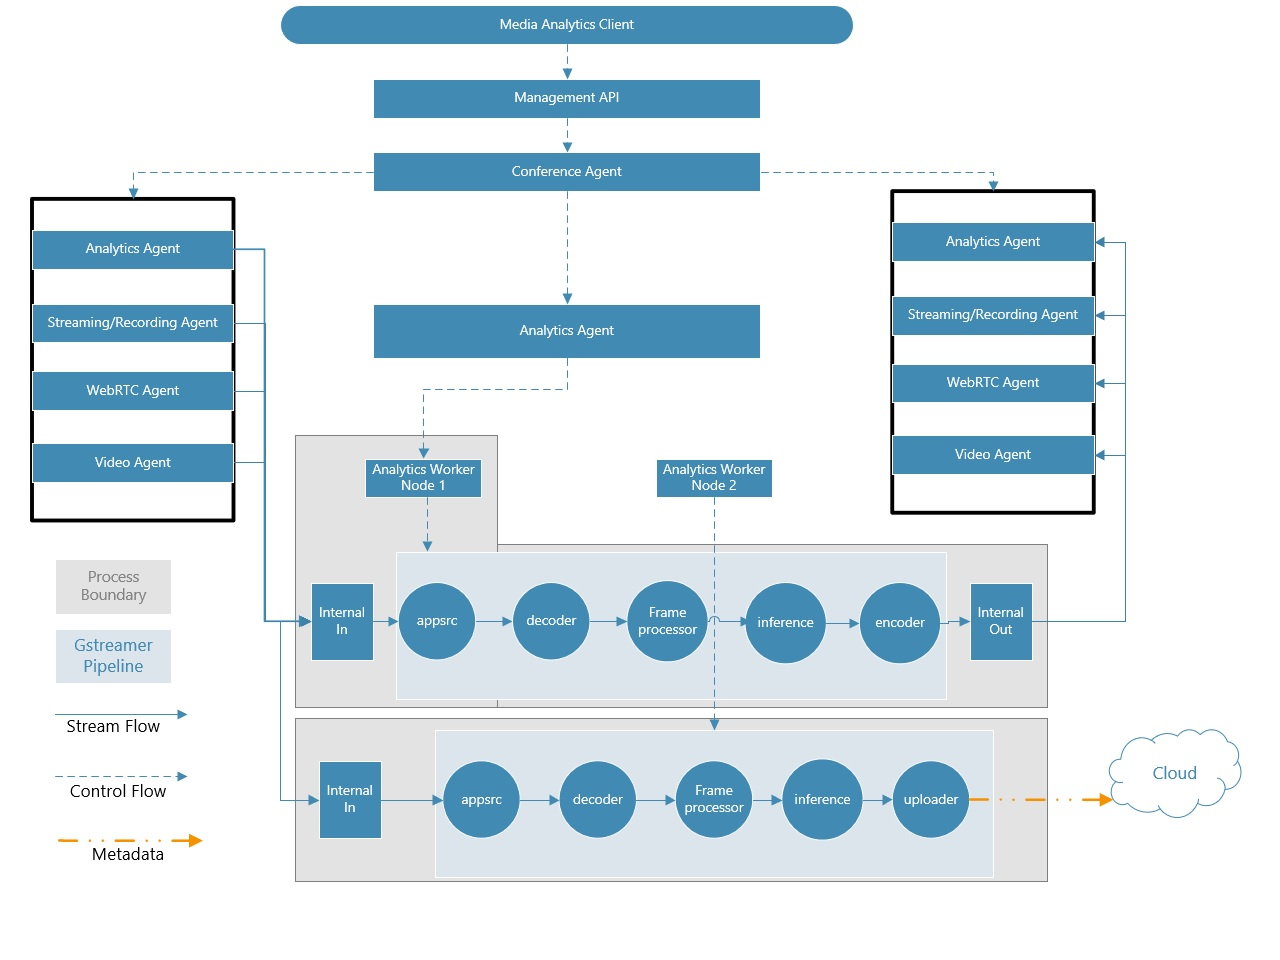
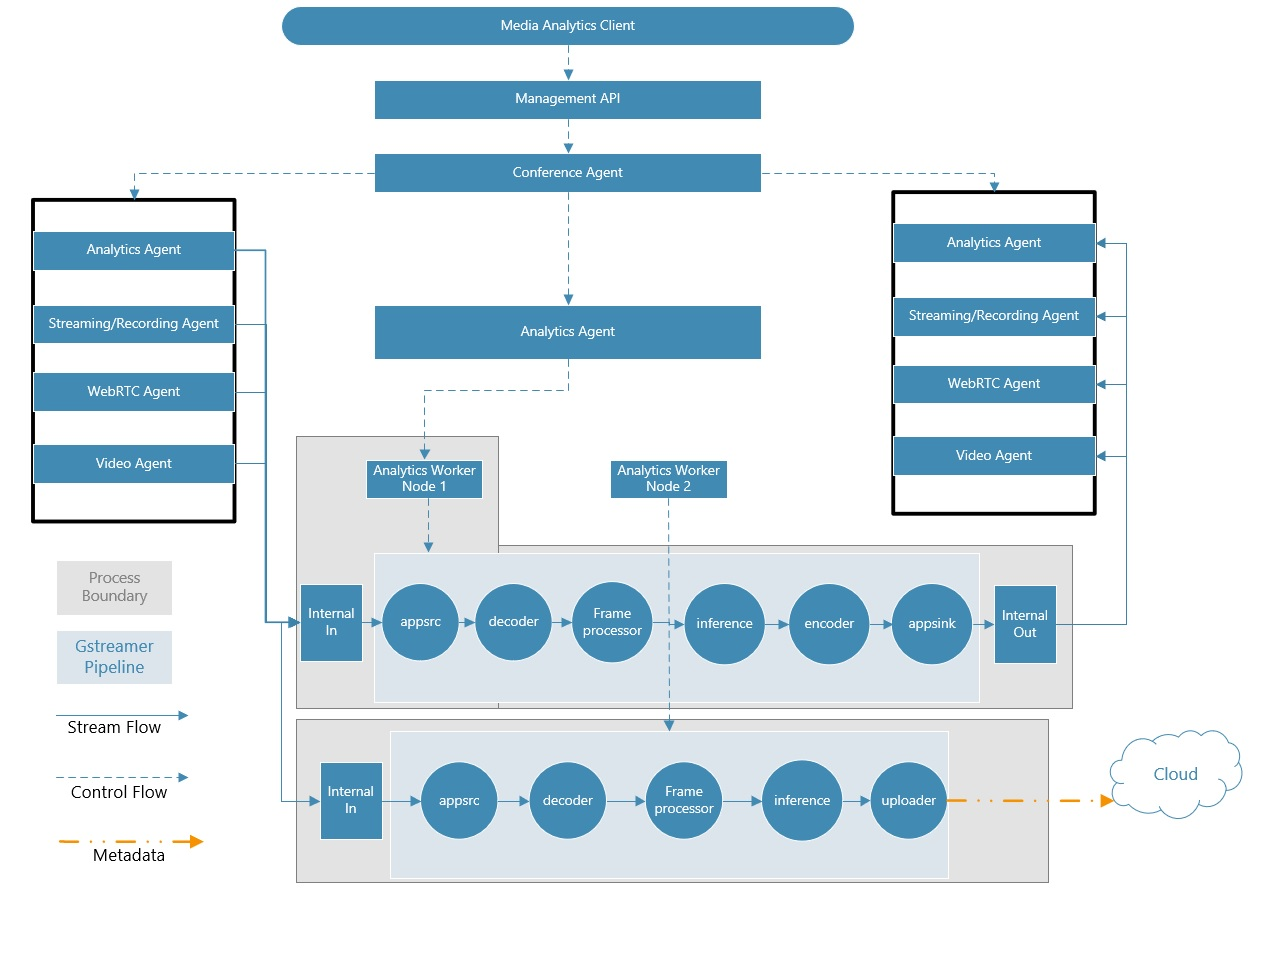
Analytics document update

diff --git a/doc/servermd/AnalyticsServerGuide_en_US.md b/doc/servermd/AnalyticsServerGuide_en_US.md
@@ -1,6 +1,6 @@
 Using Open WebRTC Toolkit For Media Analytics
 =============================================
-In this document we introduce the media analytics functionality provided by Open WebRTC Toolkit (https://github.com/open-webrtc-toolkit/owt-server), namely OWT, and a step by step guide to implement your own media analytics plugins with GStreamer pipeline and Intel Distribution of OpenVINO.
+In this document we introduce the media analytics functionality provided by Open WebRTC Toolkit (https://github.com/open-webrtc-toolkit/owt-server), namely OWT, and a step by step guide to implement your own media analytics pipeline with GStreamer and Intel Distribution of OpenVINO.
 
 OWT Media Analytics Architecture
 ================================
@@ -13,10 +13,10 @@ A successful media analytics request will generate a new stream in the room, whi
 
 Process Model
 -------------
-MCU will fork a new process for each analytics request by forming an integrated media analytics pipeline including decoder, pre-processor, video analyzer and encoder. Compressed bitstreams flow in/out of the media
+MCU will fork a new process for each analytics request by forming an integrated media analytics pipeline including decoder, pre-processor, video analyzer and encoder through GStreamer pipeline. Compressed bitstreams flow in/out of the media
 analytics pipeline through the common Internal In/Out infrastrcture provided by MCU.
 
-In current implementation, for each media analytics pipeline, only one media analaytics plugin is allowed to be loaded. The plugin loaded by the pipeline is controlled by the algorithm ID parameter in analytics
+In current implementation, for each media analytics worker, only one media analaytics pipeline is allowed to be loaded. The GStreamer pipeline loaded by the analytics worker is controlled by the algorithm ID parameter in analytics
 REST request.
 
 Build and Installation
@@ -34,11 +34,11 @@ Installation Steps
 
 ### Build Docker image
 
-Follow the Dockerfile from <https://github.com/open-webrtc-toolkit/owt-server/blob/gst-analytics/docker/gst/Dockerfile> to check dependencies for compiling OWT , running OWT and running analytics environment. 
+Follow the Dockerfile from <https://github.com/open-webrtc-toolkit/owt-server/blob/gst-analytics/docker/gst/Dockerfile> to check dependencies to compile OWT, run OWT and analytics agent. 
 
-You can refer to <https://github.com/open-webrtc-toolkit/owt-server/blob/gst-analytics/docker/gst/build_docker_image.sh> to build images you need:
+You can refer to <https://github.com/open-webrtc-toolkit/owt-server/blob/gst-analytics/docker/gst/build_docker_image.sh> to build all 4 images we provide, or you can follow commands below to build a single image you need:
 
-- OWT compile docker environment, it will create an image containing all the dependencies to compile OWT, you can use this image to build OWT package.
+- OWT compile docker environment, it will create an image containing all the dependencies to compile OWT. The generated image can be used to build and package OWT.
 ````
 docker build --target owt-build -t gst-owt:build \
     --build-arg http_proxy=${HTTP_PROXY} \
@@ -46,7 +46,7 @@ docker build --target owt-build -t gst-owt:build \
     .
 ````
 
-- OWT running environment without analytics, it will create an image containing all the OWT running dependencies except analytics to run. This image can be used to deploy on E5 host device while only analytics image deployed on VCAA cards.
+- OWT running environment without analytics, it will create an image containing all the OWT running dependencies except analytics to run. This image can be used to deploy on host device while ```gst-analytics:run``` image deployed on VCAA cards.
 ````
 docker build --target owt-run -t gst-owt:run \
     --build-arg http_proxy=${HTTP_PROXY} \
@@ -54,7 +54,7 @@ docker build --target owt-run -t gst-owt:run \
     .
 ````
 
-- Only analytics agent running environment, it will create an image containing only analytics agent dependencies to run, this image can be used together with above image for cluster deployment.
+- Only analytics agent running environment, it will create an image containing only analytics agent dependencies to run, this image can be used together with above ```gst-owt:run``` image in cluster deployment.
 ````
 docker build --target analytics-run -t gst-analytics:run \
     --build-arg http_proxy=${HTTP_PROXY} \
@@ -77,12 +77,12 @@ Download open model zoo package from <https://github.com/opencv/open_model_zoo/r
 #tar zxf 2019_R3.1.tar.gz
 #cd open_model_zoo-2019_R3.1/tools/downloader
 ````
-Then follow  Model Downloader<tools/downloader/README.md> to install dependencies to download open model zoo and download models.
+Follow  Model Downloader guide (open_model_zoo-2019_R3.1/tools/downloader/README.md) to install dependencies for downloading open model zoo and then download models.
 
 
-### Build analytics plugin
+### Build analytics pipeline
 
-After Docker image has been successfully created, run following steps to launch container, take owt running including analytics environment as an example, assume that models downloaded from open model zoo are placed in models folder:
+After Docker image has been successfully created, run following steps to launch the container, take ```gst-owt-all``` as an example, assume that models downloaded from open model zoo are placed in models folder:
 ````
 #docker run -u root -v ~:/mnt -v /var/tmp:/var/tmp --privileged --net=host $(env | grep -E '_(proxy)=' | sed 's/^/-e /') --entrypoint bash -tid gst-owt-all:run
 
@@ -96,28 +96,28 @@ face-detection-retail-0004.bin  face-detection-retail-0004.xml
 /home# cd /home/owt/analytics_agent/plugins/samples
 /home/owt/analytics_agent/plugins/samples# ./build_samples.sh
 ````
-The script build analytics plugins, the output dynamic libraries for plugins are under ````build/intel64/Release/lib/```` directory.
+The script builds analytics pipelines, the output dynamic libraries for pipelines are under ````build/intel64/Release/lib/```` directory.
 
-|Plugin library name        |             Functionality                       |
+|Pipeline library name        |             Functionality                       |
 |---------------------------|-------------------------------------------------|
-|libCPUPipeline.so          |Face detection plugin with CPU pipeline              |
+|libCPUPipeline.so          |Face detection pipeline with CPU pipeline              |
 |libDetectPipeline.so       |Face detection with GPU decode and VPU inference                        |
-|libSamplePipeline.so       |Dummy plugins that shows how to write plugins                          |
+|libSamplePipeline.so       |Dummy pipelines                          |
 
 Copy all output library files to ````analytics_agent/lib/```` directory, or to path specified by ````analytics.libpath````section in ````dist/analytics_agent/agent.toml```` file, 
-which is by default ````dist/analytics_agent/libs/````directory.
+which is by default ````dist/analytics_agent/pluginlibs/````directory.
 
 
-Test Plugins Shipped with Open WebRTC Toolkit
+Test Pipelines Shipped with Open WebRTC Toolkit
 =============================================
-We introduce the usage of plugins shipped with OWT here, using face detection with CPU as examples:
+We introduce the usage of pipelines shipped with OWT here, using face detection with CPU as examples:
 
 Preparation
 -----------
 
-In OWT server, the analytics algorithms and plugin binaries are bound by ````dist/analytics_agent/plugin.cfg````configuration file.
+In OWT server, the analytics algorithms and pipeline binaries are bound by ````dist/analytics_agent/plugin.cfg````configuration file.
 
-````plugin.cfg````by default contains multiple mappings from algorithm to plugin binaries, for example:
+````plugin.cfg````by default contains multiple mappings from algorithm to pipeline binaries, for example:
 ````
 [dc51138a8284436f873418a21ba8cfa9]
 description = 'detect plugin'
@@ -133,23 +133,23 @@ inferenceframerate = 5  # inference input framerate
 device = "CPU"
 ````
 
-Make sure you copy plugin binaries to ````dist/analytics_agent/lib/````directory or the path specified in ````dist/analytics_agent/agent.toml````.
+You can specify different model path (downloaded from open model zoo) and other inference parameters to try out different inference models.
+
+Make sure you copy pipeline binaries to ````dist/analytics_agent/lib/````directory or the path specified in ````dist/analytics_agent/agent.toml````.
 
 
-Configure and Start MCU
+Start MCU
 -----------------------
 
-Go to dist directory of MCU and finish the initialization：
 
-````bin/init-all.sh````
+Start up MCU:
 
-
-Start up MCU(make sure you set OpenVION enviroment before starting MCU):
-
-````bin/start-all.sh````
+````
+/home/start.sh
+````
 
 
-Test Media Analytics Plugins
+Test Media Analytics Pipelines
 ----------------------------
 
 Make sure the camera is accessible and start up Chrome browser on your desktop:
@@ -166,33 +166,33 @@ Refresh the test page and your local stream should be published to MCU.
 On the page, drop down from “video from” and select the remote stream you would like to analyze.
 
 
-Make sure face detection with cpu plugin has been installed. The source code of face detection plugin is under ````dist/analytics_agent/plugins/samples/cpu_pipeline/````, you can modify the implementatio if neccessary.
+Make sure face detection with cpu pipeline has been installed. The source code of face detection pipeline is under ````dist/analytics_agent/plugins/samples/cpu_pipeline/````, you can change the model path to try other detection models.
 
 
-Check ````analytics_agent/plugin.cfg````， The plugin ID for face detection with CPU is ````dc51138a8284436f873418a21ba8cfa9````, so on the page, in "pipelineID" input text, input the plugin ID in "analytics id" 
+Check ````analytics_agent/plugin.cfg````， The pipeline ID for face detection with CPU is ````dc51138a8284436f873418a21ba8cfa9````, so on the page, in "pipelineID" input text, input the pipeline ID in "analytics id" 
 edit control, that is,  ````dc51138a8284436f873418a21ba8cfa9```` without any extra spaces, and press "startAnalytics" button. The stream you selected will be analyzed, with annotation on the faces in the stream.
 
 ### Subscribe analyzed stream
 
 On the page and drop down from "subscribe video" and select the stream id with ````algorithmid+video from streamid```` and click subscribe, then analyzed stream will display on page.
 
-**Note that if you do not add GStreamer plugin ````x264enc + appsink```` into your pipeline like sample detect_pipeline, analyzed stream will not be sent back to OWT server so you cannot subscribe analyzed stream.**
+**Note that if you do not add GStreamer elements ````x264enc + appsink```` into your pipeline like sample detect_pipeline, analyzed stream will not be sent back to OWT server so you cannot subscribe analyzed stream.**
 
 ### Stop Analytics
 
-After you successfully start analytics, analytics id will be generated and the latest analytics id will display in ```analytics id:``` on page, then click ```stopAnalytics``` button on page to stop analytics. Or you can click ```listAnalytics``` button to list all started analytics id, and input the analytics id in ```analytics id:```, then click ```stopAnalytics``` button on page to stop analytics .
+After you successfully start analytics, analytics id will be generated and the latest analytics id will display in ```analytics id:``` on page, then click ```stopAnalytics``` button on page to stop analytics. Or you can click ```listAnalytics``` button to list all started analytics id on Chrome console, and input the analytics id in ```analytics id:```, then click ```stopAnalytics``` button on page to stop analytics .
 
 
-Develop and Deploy Your Own Media Analytics Plugins
+Develop and Deploy Your Own Media Analytics Pipelines
 ===================================================
 
-MCU supports implementing your own media analytics plugins and deploy them. Below are the detailed steps. You can also refer to dummy plugin(in  ````plugins/samples/sample_pipeline/````) or face detection plugin with CPU(````plugins/samples/cpu_pipeline/````)or face detection plugin with GPU and VPU(````plugins/samples/detect_pipeline/````) for more details.
+MCU supports implementing your own media analytics pipelines and deploy them. Below are the detailed steps. You can also refer to dummy pipeline(in  ````plugins/samples/sample_pipeline/````) or face detection pipeline with CPU(````plugins/samples/cpu_pipeline/````)or face detection pipeline with GPU and VPU(````plugins/samples/detect_pipeline/````) for more details.
 
 
-Develop Plugins
+Develop Pipelines
 ---------------
 
-Plugin exists in the format of an implementation class of ````rvaPlugin```` interface,  which will be built into an .so library. The defnition of ````rvaPlugin```` interface is under ````plugins/include/pipeline.h````.
+Pipeline exists in the format of an implementation class of ````rvaPipeline```` interface,  which will be built into an .so library. The defnition of ````rvaPipeline```` interface is under ````plugins/include/pipeline.h````.
 
 ````
 class rvaPipeline {
@@ -200,14 +200,14 @@ class rvaPipeline {
   /// Constructor
   rvaPipeline() {}
   /**
-   @brief Initializes a plugin with provided params after MCU creates the plugin.
+   @brief Initializes a pipeline with provided params after MCU creates the pipeline.
    @param params unordered map that contains name-value pair of parameters
    @return RVA_ERR_OK if no issue initialize it. Other return code if any failure.
   */
   virtual rvaStatus PipelineConfig(std::unordered_map<std::string, std::string> params) = 0;
   /**
-   @brief Release internal resources the plugin holds before MCU destroy the plugin.
-   @return RVA_ERR_OK if no issue close the plugin. Other return code if any failure.
+   @brief Release internal resources the pipeline holds before MCU destroy the pipeline.
+   @return RVA_ERR_OK if no issue close the pipeline. Other return code if any failure.
   */
   virtual rvaStatus PipelineClose() = 0;
   /**
@@ -241,9 +241,9 @@ class rvaPipeline {
 };                                                                                  
 ````                                                                                                
 
-The main interfaces for a plugin implementation are ```PipelineConfig()```,  ````InitializePipeline()```` and````LinkElements()````.
+The main interfaces for a pipeline implementation are ```PipelineConfig()```,  ````InitializePipeline()```` and````LinkElements()````.
 
-In ````PipelineConfig()````implemntation，you should get the width, height and frame rate of input stream, and you will also get the algorithm name which is aligned with settings in ```plugin.cfg```, and you can use this algorithm name in ````LinkElements()```` to load pipeline settings such as inferencing model path, inference width and height, as well as configuring the device to decode and inference.
+In ````PipelineConfig()````implemntation，you should get the width, height and frame rate of input stream, and you will also get the algorithm name which is aligned with settings in ```plugin.cfg```, then you can use this algorithm name in ````LinkElements()```` to load pipeline settings such as inferencing model path, inference width and height, as well as configuring the device to decode and inference.
 
 The sample code of getting algorithm id and input stream info:
 ````
@@ -300,15 +300,15 @@ GstElement * InitializePipeline();
 
 **1. The first element in pipeline should be ```appsrc``` and its element name should be ```appsource```**
 
-**2. If you want to send analyzed stream back to OWT server, you need add an encode element(like x264enc) to encode stream, the element name should be ```encoder```**
+**2. If you want to send analyzed stream back to OWT server, make sure add an encode element(like x264enc) to encode stream, the element name should be ```encoder```**
 
 **3. If you want to send analyzed stream back to OWT server, the last element in pipeline should be ```appsink``` and the element name should be ```appsink```**
 
-You can create GStreamer elements that will be used to process and analyze stream in the pipeline.
+You can create other GStreamer elements that will be used to process and analyze stream in the pipeline.
 
-Below we show the InitializePipeline implementation in cpu_pipeline plugin with CPU to decode, inference and encode.
+Below we show the InitializePipeline implementation in cpu_pipeline pipeline with CPU to decode, inference and encode.
 
-|Plugin library name        |             Functionality                       |
+|pipeline library name        |             Functionality                       |
 |---------------------------|-------------------------------------------------|
 |appsrc                     |Used by OWT to insert data into the pipeline     |
 |h264parse                  |Parses H.264 streams                             |
@@ -403,23 +403,23 @@ link_ok = gst_element_link_filtered (encoder, outsink, encodecaps);
 gst_caps_unref (encodecaps);
 ````
 
-After you finish ````rvaPlugin```` interface implementation，Please include such **DECLARE_PLUGIN** macro to delcare the plugin to MCU：
+After you finish ````rvaPipeline```` interface implementation，Please include such **DECLARE_PIPELINE** macro to delcare the pipeline to MCU：
 ````
-DECLARE_PLUGIN(YourPluginName)
+DECLARE_PIPELINE(YourPipelineName)
 ````
 
 
-Here ````YourPluginName```` must be the class name of your ````rvaPlugin```` implementation.
+Here ````YourPipelineName```` must be the class name of your ````rvaPipeline```` implementation.
 
-Finally build and copy all binaries to the same directory where you put plugins shipped with MCU, including the libaries you plugin depends on that are not within ````LD_LIBRARY_PATH````.
+Finally build and copy all binaries to the same directory where you put pipelines shipped with MCU, including the libaries your pipeline depends on that are not within ````LD_LIBRARY_PATH````.
 
 
-Deploy Plugins
+Deploy Pipelines
 --------------
 
-Like other plugins shipped with MCU, you need to add an entry into ````dist/analytics_agent/plugin.cfg```` for your plugin by generating a new UUID, using that to start a new section in ````plugin.cfg````.
+Like other pipelines shipped with MCU, you need to add an entry into ````dist/analytics_agent/plugin.cfg```` for your pipeline by generating a new UUID, using that to start a new section in ````plugin.cfg````.
 
-Restart analytics agent to make the changes effective, and then you can use the new UUID(the plugin ID) to test your plugin:
+Restart analytics agent to make the changes effective, and then you can use the new UUID(the pipeline ID) to test your pipeline:
 ````
 bin/daemon.sh stop analytics-agent 
 bin/daemon.sh start analytics-agent 
